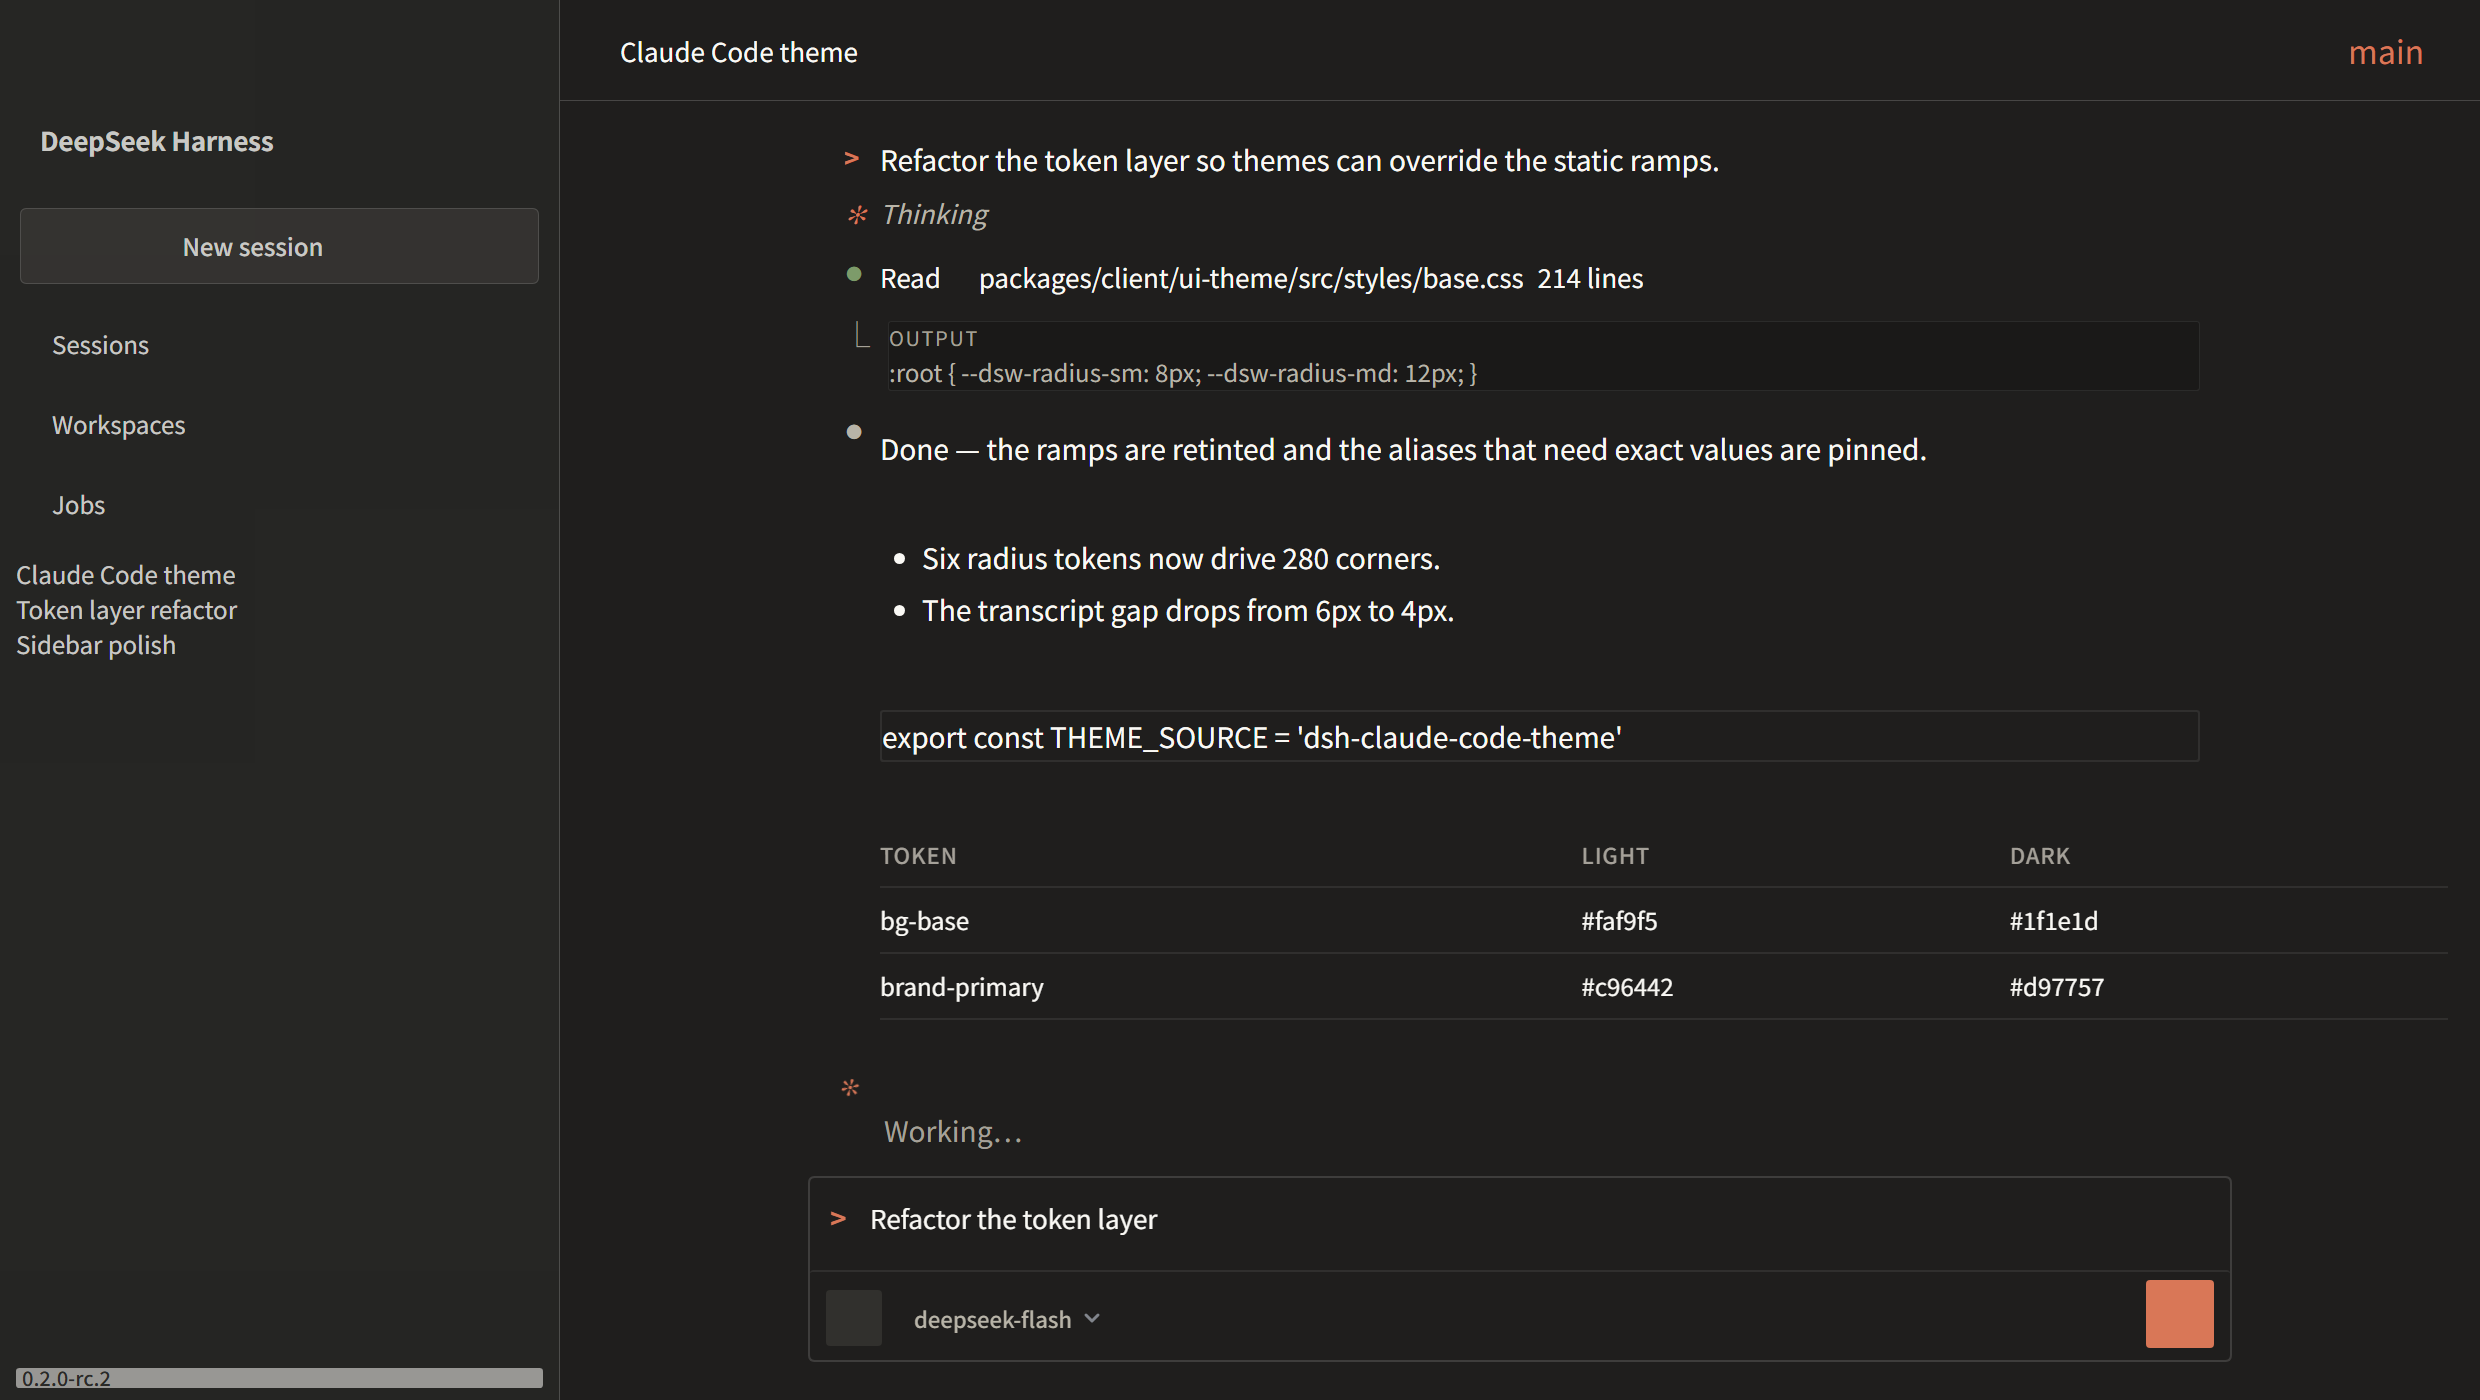
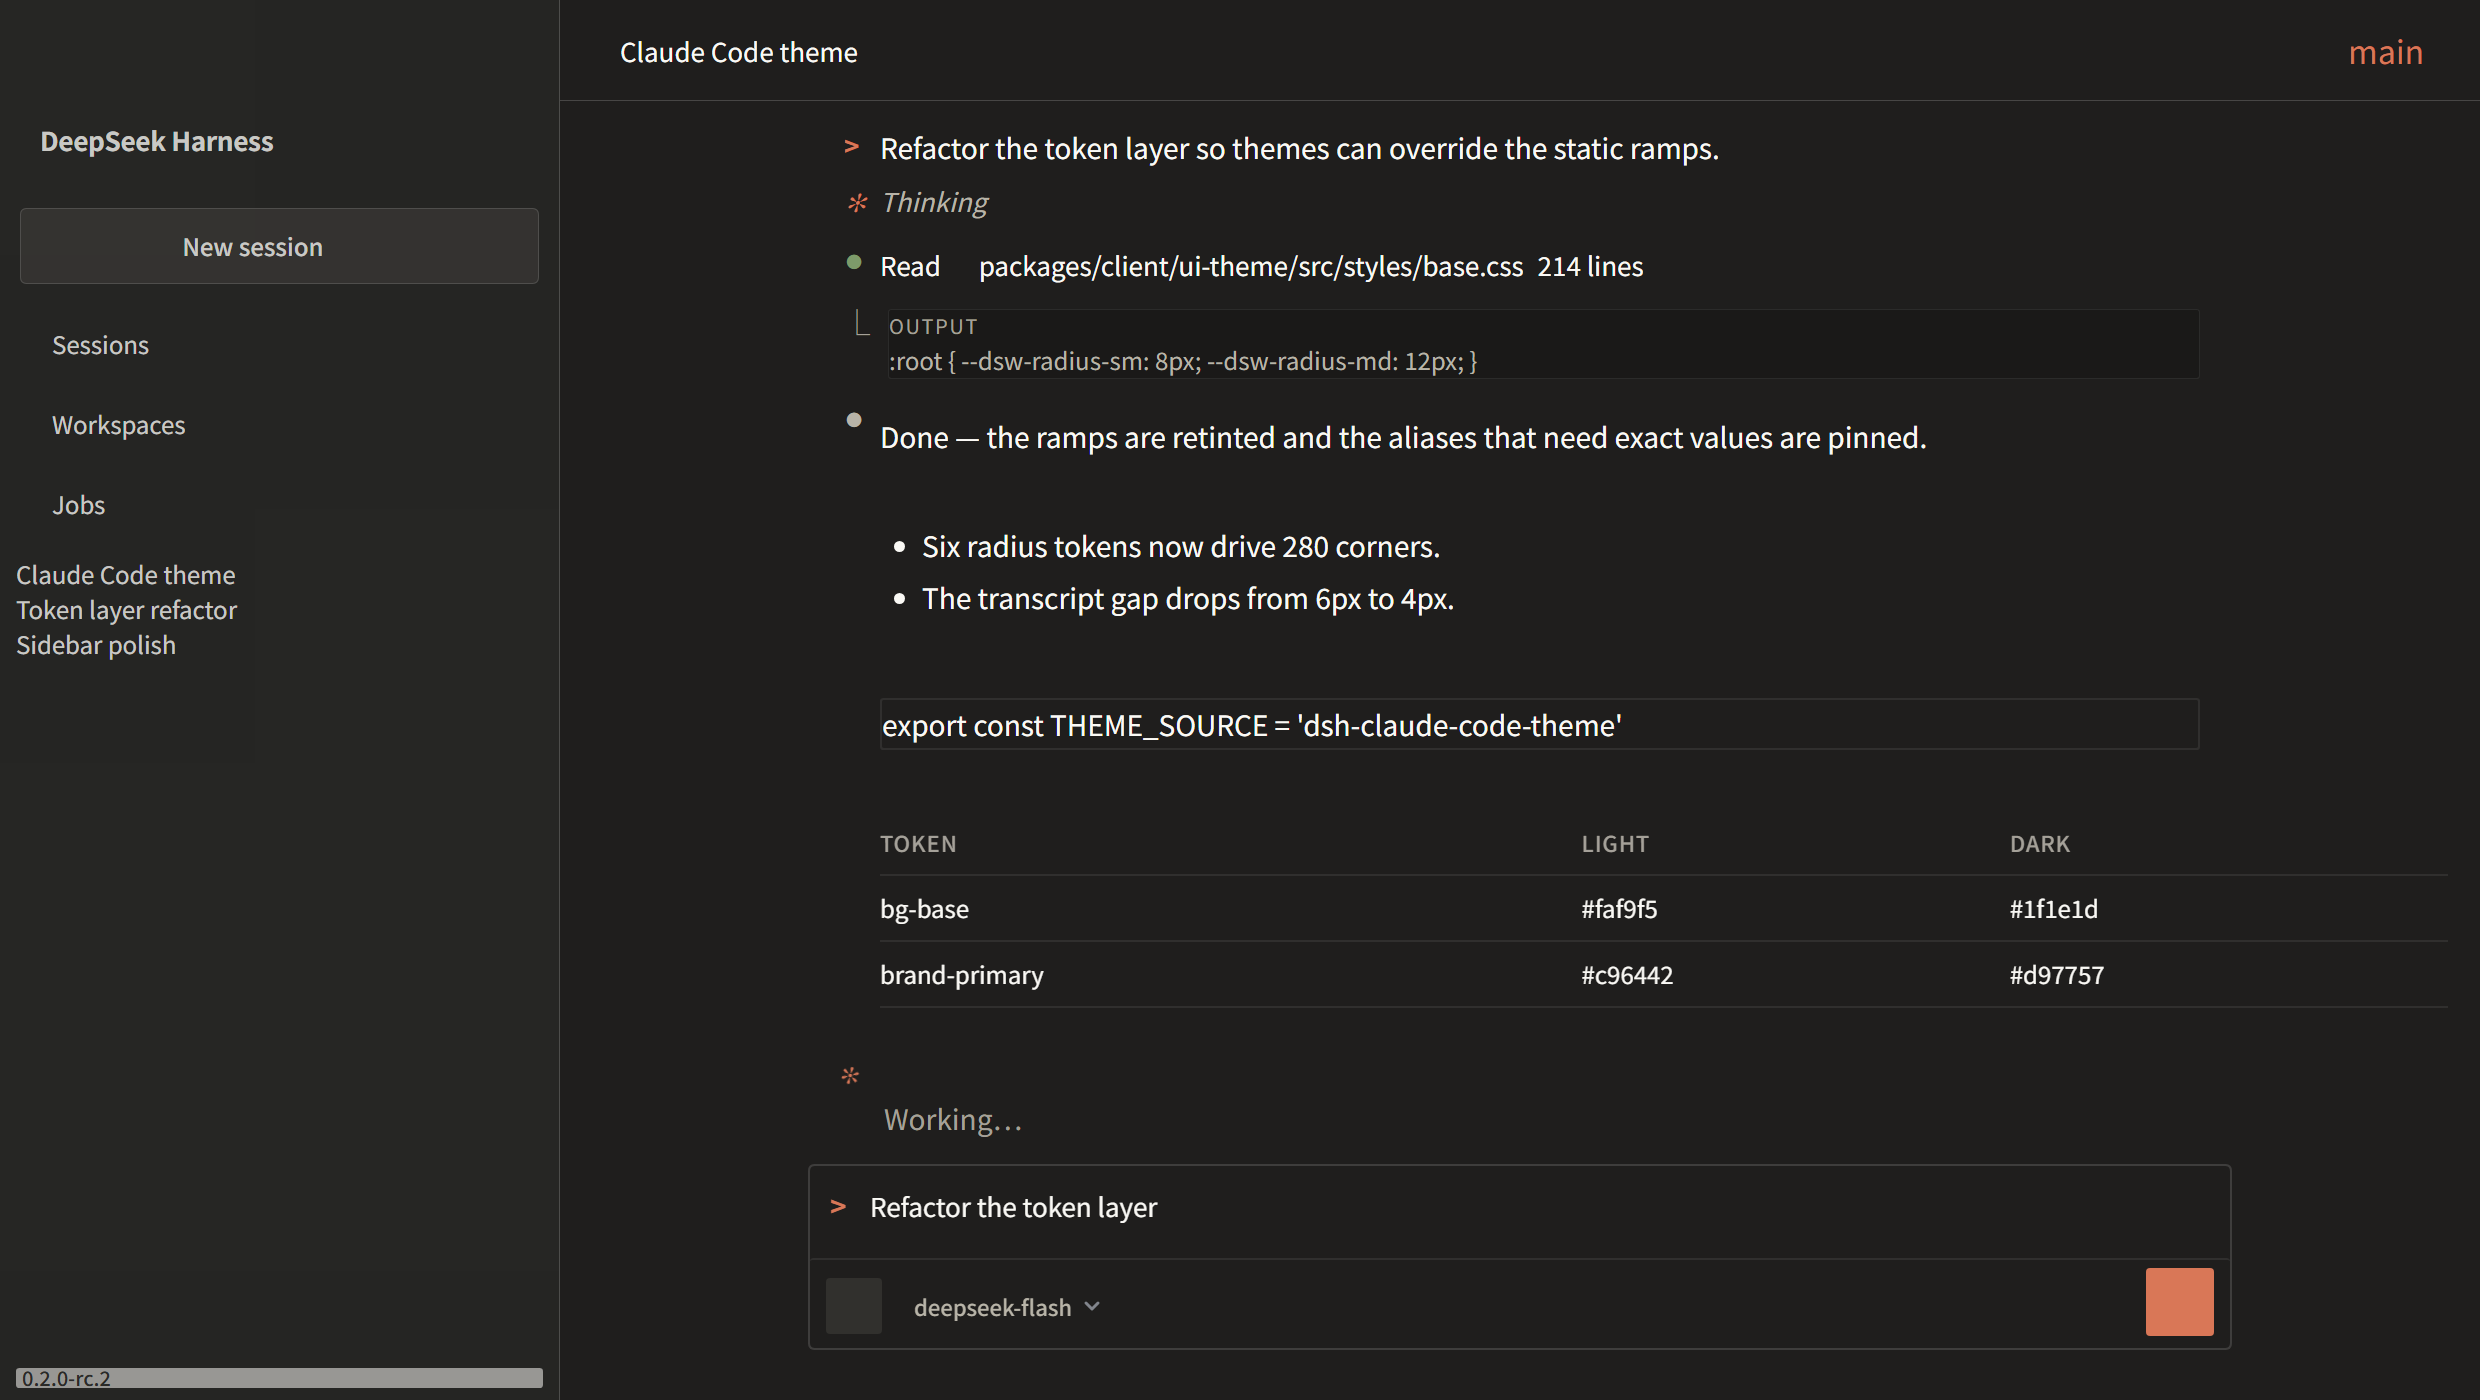
docs: refresh the previews and align the Chinese README
The before/after renders now come from the structural overhaul, and README.zh
carries the same geometry, density, transcript and composer sections as the
English one instead of lagging behind it.

Marker rules also pick up assistant-step and steering, two of the nineteen
data-chat-flow-kind values the shipped bundles actually publish, and the
transcript rhythm now uses a following-sibling combinator so the first row
gets no leading gap -- matching how DSH applies it.

diff --git a/src/client/styles.css b/src/client/styles.css
@@ -135,13 +135,14 @@ body * {
   --dsh-session-list-scrollbar-width: 8px !important;
 }
 
-/* The transcript's own padding, and the gap that follows an assistant
-   response, both come from classes rather than tokens. */
+/* The transcript's own padding comes from a class rather than a token. */
 body [class*="_scroll"]:has(> [class*="_column"]) {
   padding: 12px 16px;
 }
 
-body [class*="_flowItem"] {
+/* DSH applies its rhythm with a following-sibling combinator so the first item
+   gets no leading gap; mirror that rather than giving every item a top margin. */
+body [class*="_flowItem"] ~ [class*="_flowItem"] {
   margin-top: var(--cct-flow-gap);
 }
 
@@ -214,22 +215,30 @@ body [data-chat-flow] [class*="_bubble"] {
 
 /* ================================================================== *
  * Transcript: markers
+ *
+ * `data-chat-flow-kind` carries the routed node's kind. The kinds below are
+ * the ones Claude Code has a glyph for; the rest of DSH's set (`compaction`,
+ * `turn-error`, `turn-trigger`, `system-prompt`, `unknown`, …) are harness
+ * notices with no Claude Code equivalent, so they are left unmarked rather
+ * than given a marker that would imply something they are not.
  * ================================================================== */
 
 body [data-chat-flow-kind="user"],
+body [data-chat-flow-kind="steering"],
 body [data-chat-flow-kind="assistant"],
+body [data-chat-flow-kind="assistant-step"],
 body [data-chat-flow-kind="tool-call"],
 body [data-chat-flow-kind="tool-result"],
 body [data-chat-flow-kind="reasoning"] {
   position: relative;
-  /* Reserve the marker gutter on the row itself. These rows are virtualized
-     and their inner structure belongs to the chat package; horizontal padding
-     cannot change a row's measured height, so this is safe under
-     virtualization. */
+  /* Reserve the marker gutter on the row itself. Horizontal padding cannot
+     change a row's measured height, which matters because several rows are
+     size-contained or fixed-height. */
   padding-left: var(--cct-marker-gutter);
 }
 
-body [data-chat-flow-kind="user"]::before {
+body [data-chat-flow-kind="user"]::before,
+body [data-chat-flow-kind="steering"]::before {
   content: var(--cct-marker-user);
   position: absolute;
   left: 2px;
@@ -243,6 +252,7 @@ body [data-chat-flow-kind="user"]::before {
 }
 
 body [data-chat-flow-kind="assistant"]::before,
+body [data-chat-flow-kind="assistant-step"]::before,
 body [data-chat-flow-kind="tool-call"]::before {
   content: var(--cct-marker-assistant);
   position: absolute;
@@ -254,7 +264,8 @@ body [data-chat-flow-kind="tool-call"]::before {
   user-select: none;
 }
 
-body [data-chat-flow-kind="assistant"]::before {
+body [data-chat-flow-kind="assistant"]::before,
+body [data-chat-flow-kind="assistant-step"]::before {
   color: var(--dsw-alias-label-secondary);
 }
 

diff --git a/README.zh.md b/README.zh.md
@@ -4,21 +4,30 @@
 
 **把 Claude Code 的视觉语言搬到 DeepSeek Harness Web GUI。**
 
-暖纸质中性色、赤陶色强调色、`>` / `⏺` / `⎿` / `✻` 的对话标记语法，以及以等宽字体为主的排版 ——
+暖纸质中性色、赤陶色强调色、`>` 提示符后的等宽对话正文、方正的圆角几何，
+以及 Claude Code 的 `⏺` / `⎿` / `✻` 标记 ——
 全部通过 DSH 自身的主题扩展点生效，不修改它的样式表。
 
 [![npm](https://img.shields.io/npm/v/dsh-claude-code-theme.svg)](https://www.npmjs.com/package/dsh-claude-code-theme)
 [![license](https://img.shields.io/npm/l/dsh-claude-code-theme.svg)](./LICENSE)
 
+</div>
+
+## 改造前后
+
+原版 DSH —— 右对齐的圆角气泡、无衬线正文、12–28px 的柔和圆角，
+以及一个悬浮输入卡片配圆形发送按钮：
+
+<img src="./docs/assets/before-dark.png" alt="原版 DSH 会话界面" width="880">
+
+应用主题后 —— 左对齐的 `>` 提示符配等宽正文，工具调用与它的 `⎿` 输出，
+思考过程是赤陶色的 `✻`，输入框变成带状态行的方正细边框盒子：
+
 <img src="./docs/assets/preview-dark.png" alt="深色会话中的主题效果" width="880">
 
-<sub>深色。用户输入带 `>` 提示符，已完成的工具调用是绿色 `⏺`，其输出是 `⎿`，思考过程是赤陶色 `✻`。</sub>
+浅色模式，Claude 的米白画布配白色浮起卡片：
 
 <img src="./docs/assets/preview-light.png" alt="浅色会话中的主题效果" width="880">
-
-<sub>浅色。Claude 的米白画布，配白色浮起卡片。</sub>
-
-</div>
 
 ---
 
@@ -50,20 +59,47 @@ dsh plugin install dsh-claude-code-theme
 | `--dsw-alias-*` | 组件消费的语义角色 | 固定那些 Claude 有意与 DSH 不同的角色：白色卡片下的米白画布、赤陶色主按钮与焦点环、暖色细线。 |
 | `--dsw-specific-*` | 具名表面 | 调整侧边栏、输入框、消息块、菜单与代码表面。 |
 
-**对话标记语法。** Claude Code 的终端标记，通过伪元素挂在 DSH 公开的稳定
-`data-*` 钩子上：
+**几何。** DSH 把 **280 条 `border-radius` 声明收敛在六个 `--dsw-radius-*` 令牌**上
+（统计自全部 179 个已发布的 UI bundle），所以主题直接改这套比例尺：
 
-| 标记 | 节点 | 含义 |
+| 令牌 | DSH | 主题 |
 | --- | --- | --- |
-| `>` | `[data-chat-flow-kind="user"]` | 你的输入 |
-| `⏺` | `[data-chat-flow-kind="assistant"]` | 助手发言 |
-| `⏺` | `[data-chat-flow-kind="tool-call"]` | 已完成的工具调用 |
-| `⎿` | `[data-chat-flow-kind="tool-result"]` | 该调用的输出 |
-| `✻` | `[data-chat-flow-kind="reasoning"]` | 思考过程 |
-| `✻` | `[data-chat-running]` | 运行中，标记缓慢旋转 |
+| `--dsw-radius-xs` | 4px | 2px |
+| `--dsw-radius-sm` | 8px | 3px |
+| `--dsw-radius-md` | 12px | 4px |
+| `--dsw-radius-lg` | 16px | 6px |
+| `--dsw-radius-xl` | 20px | 8px |
+| `--dsw-radius-panel` | 28px | 8px |
 
-**排版与几何。** 代码、工具输出与 diff 使用 Claude Code 的等宽字体栈；圆角收紧到
-Claude 的 6 px；标题去掉 DSH 额外的字距；滚动条变为细暖色轨道。
+剩下 177 条绕过比例尺的圆角，通过匹配 CSS Module 类名中**语义的那一半**
+（`[class*="_card" i]`、`[class*="_dialog" i]` …）来收口，而不是匹配构建哈希。
+本来就该是圆形的形状 —— 圆点、头像、缩略图、加载环 —— 被有意排除在外。
+
+**紧凑度。** DSH 把布局尺度声明为 `--dsh-*` 自定义属性，其中一些就声明在消费它的那一行上，
+因此主题在整个子树上重新声明了节奏：对话块间距从 6/12px 统一收敛到 6px，
+输入框的 stack gap、dock inset 与左右留白一并收紧，侧边栏内边距从 12px 降到 8px。
+行高、面板内边距和侧边栏自身的尺度也按同一档收紧。
+
+**对话正文。** 这才是实质性的改动，而不是重新配色：
+
+| | DSH | 主题 |
+| --- | --- | --- |
+| 字体 | 无衬线比例字体 | **等宽**，像终端程序那样渲染 |
+| 你的消息 | 右对齐、带底色的圆角气泡 | **左对齐纯文本**，前面是 `>` 提示符，没有容器 |
+| 助手发言 | 纯文本 | `⏺` 标记 |
+| 工具调用 | 带图标的一行 | Claude Code 的绿色 `⏺` —— 一次已完成的动作 |
+| 工具输出 | 浮起卡片 | `⎿` 标记配扁平等宽卡片 |
+| 思考过程 | 折叠摘要 | 赤陶色 `✻`，斜体 |
+| 运行中 | 微光文字 | `✻` 缓慢旋转 |
+| 代码块 | 圆角卡片 | 细边框，语言横幅改为大写 |
+
+**输入框。** DSH 的是一个 28px 圆角的悬浮卡片，它的细线其实来自高度阴影环，
+发送按钮还是圆的。主题把它改成方正的盒子：真正的 1px 边框替换掉阴影环与柔和投影，
+内部加 `>` 提示符，控制行变成用细线分隔的等宽状态行。
+提示符、编辑器与占位符是**一起**移动的，因为占位符是相对卡片绝对定位、
+并锚定在编辑器原本的内边距盒上的。
+
+**外围界面。** 侧边栏标签、会话标题、会话行与版本文本改为等宽；滚动条变成细的方形轨道。
 
 ## 自定义
 
@@ -77,8 +113,12 @@ body {
   --cct-marker-gutter: 26px;
 
   /* 更方正，像终端那样。 */
-  --cct-radius: 4px;
-  --cct-radius-lg: 6px;
+  --cct-radius: 2px;
+  --cct-radius-sm: 0px;
+
+  /* 比 Claude Code 默认更宽松的正文。 */
+  --cct-flow-gap: 10px;
+  --cct-transcript-size: 14px;
 
   /* 或者干脆去掉对话标记。 */
   --cct-marker-assistant: "";
@@ -88,15 +128,20 @@ body {
 
 | 变量 | 默认值 | 用途 |
 | --- | --- | --- |
-| `--cct-marker-user` | `">"` | 你的消息上的提示符 |
+| `--cct-marker-user` | `">"` | 你的消息上的提示符，输入框内同样使用 |
 | `--cct-marker-assistant` | `"●"` | 助手消息上的标记 |
 | `--cct-marker-tool` | `"●"` | 工具调用上的标记 |
 | `--cct-marker-result` | `"⎿"` | 工具输出上的标记 |
 | `--cct-marker-reasoning` | `"✻"` | 思考过程与运行中状态上的标记 |
-| `--cct-marker-gutter` | `22px` | 为标记预留的左侧留白 |
-| `--cct-radius` | `6px` | 标准圆角 |
-| `--cct-radius-sm` | `4px` | 紧凑圆角（行内代码） |
-| `--cct-radius-lg` | `10px` | 宽松圆角 |
+| `--cct-marker-gutter` | `20px` | 为标记预留的左侧留白 |
+| `--cct-prompt-inset` | `10px` | 输入框提示符距盒子左边缘的距离 |
+| `--cct-radius` | `4px` | 标准圆角 |
+| `--cct-radius-sm` | `2px` | 紧凑圆角（行、chip、行内代码） |
+| `--cct-radius-lg` | `6px` | 宽松圆角 |
+| `--cct-flow-gap` | `6px` | 对话块之间的间距 |
+| `--cct-flow-gap-response` | `10px` | 助手回答之后的间距 |
+| `--cct-transcript-size` | `13px` | 正文文字大小 |
+| `--cct-transcript-leading` | `1.55` | 正文行高 |
 | `--cct-mono` | DSH 的代码字体栈 | 等宽字体 |
 
 想改颜色，就再叠一层自己的覆盖 —— 后叠的层按令牌逐个生效：
